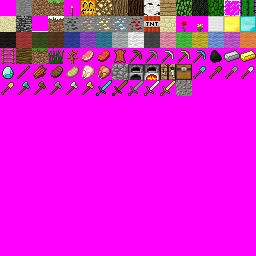
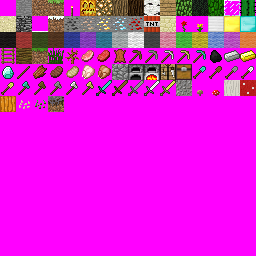
Added Mushroom biomes and fixed a few bugs

Changed region(s): [[0.0, 0.375, 0.25, 0.4375], [0.75, 0.3125, 1.0, 0.375]]

diff --git a/MineDS/source/blocks.cpp b/MineDS/source/blocks.cpp
@@ -10,12 +10,15 @@
 #include <stdarg.h>
 #define sizeOfArray(x) (sizeof(x)/4)
 
-int walkThroughBlocks[]={AIR,YELLOW_FLOWER,RED_FLOWER,SNOW_TOP,TORCH,LADDER,SHRUB,TALL_GRASS};
-int renderBright[]={AIR,LOG,OAK_WOOD,BIRCH_WOOD,LEAF,YELLOW_FLOWER,RED_FLOWER,CACTUS,TORCH,REDWOOD_LEAF,GLASS,SHRUB,TALL_GRASS};
+int walkThroughBlocks[]={AIR,YELLOW_FLOWER,RED_FLOWER,SNOW_TOP,TORCH,LADDER,SHRUB,TALL_GRASS,MUSHROOM_BROWN,MUSHROOM_RED};
+int renderBright[]={AIR,LOG,OAK_WOOD,BIRCH_WOOD,LEAF,YELLOW_FLOWER,RED_FLOWER,CACTUS,TORCH,REDWOOD_LEAF,GLASS,SHRUB,TALL_GRASS,MUSHROOM_RED,MUSHROOM_BROWN};
 int lightSourceBlocks[]={TORCH,PUMPKIN_LIGHT,GLOWSTONE};
 int items[]={PORKCHOP_RAW,BEEF_RAW,LEATHER,PICKAXE_WOOD,PICKAXE_STONE,
-		PICKAXE_IRON,PICKAXE_GOLD,PICKAXE_DIAMOND,COAL,IRON,GOLD,DIAMOND,
-		STICK,FLESH,BEEF_COOKED,PORKCHOP_COOKED,CHICKEN_RAW,CHICKEN_COOKED, SHOVEL_DIAMOND, SHOVEL_WOOD, SHOVEL_STONE, SHOVEL_IRON, SHOVEL_GOLD, AXE_DIAMOND, AXE_WOOD,AXE_STONE,AXE_IRON,AXE_GOLD,SWORD_DIAMOND,SWORD_WOOD,SWORD_STONE,SWORD_IRON,SWORD_GOLD};
+		PICKAXE_IRON,PICKAXE_GOLD,PICKAXE_DIAMOND,COAL,INGOT_IRON,INGOT_GOLD,DIAMOND,
+		STICK,FLESH,BEEF_COOKED,PORKCHOP_COOKED,CHICKEN_RAW,CHICKEN_COOKED,SHOVEL_DIAMOND,
+		SHOVEL_WOOD,SHOVEL_STONE,SHOVEL_IRON,SHOVEL_GOLD,AXE_DIAMOND,AXE_WOOD,AXE_STONE,
+		AXE_IRON,AXE_GOLD,SWORD_DIAMOND,SWORD_WOOD,SWORD_STONE,SWORD_IRON,SWORD_GOLD,
+		SEEDS_PUMPKIN,SEEDS_WHEAT};
 int hardness[NUM_BLOCKS]; //Slot is ID number, negative number means tool
 int blockType[NUM_BLOCKS]; //Type of block/tool
 
@@ -126,8 +129,8 @@ void initBlockProperties()
 	setArray(blockType,SWORD,5,SWORD_STONE, SWORD_IRON, SWORD_GOLD, SWORD_WOOD,SWORD_DIAMOND); //Swords
 
 	//Blocks
-	setArray(blockType,WOOD,3,JUNGLE_WOOD,BIRCH_WOOD,OAK_WOOD);
-	setArray(blockType,SOIL,6,JUNGLE_GRASS,GRASS,DIRT,SAND,GRAVEL,SNOW_GRASS);
+	setArray(blockType,WOOD,3,JUNGLE_WOOD,BIRCH_WOOD,OAK_WOOD); //Axe Blocks
+	setArray(blockType,SOIL,7,JUNGLE_GRASS,GRASS,DIRT,SAND,GRAVEL,SNOW_GRASS,MYCELIUM);//Shovel Blocks
 	setArray(blockType,STONEBLOCK,7,STONE,SANDSTONE,COBBLESTONE,COAL_ORE,IRON_ORE,GOLD_ORE,DIAMOND_ORE); //Blocks that must be mined with a pickaxe
 
 	int i;
@@ -150,7 +153,7 @@ void initBlockProperties()
 	setArray(hardness, -4,3,PICKAXE_WOOD,AXE_WOOD,SHOVEL_WOOD);
 
 	//Block Hardness
-	setArray(hardness, 2, 4, JUNGLE_GRASS,GRASS,DIRT,SNOW_GRASS);
+	setArray(hardness, 2, 5, JUNGLE_GRASS,GRASS,DIRT,SNOW_GRASS,MYCELIUM); //Blocks with DIRT's hardness
 	hardness[STONE]=30;
 	hardness[SANDSTONE]=20;
 	hardness[COAL_ORE]=35;

diff --git a/MineDS/source/worldgen.cpp b/MineDS/source/worldgen.cpp
@@ -8,6 +8,7 @@
 
 #include "world.h"
 #include "blockID.h"
+#include "blocks.h"
 #include <stdio.h>
 #include <cstdlib>
 #include <nds.h>
@@ -97,14 +98,15 @@ void generateWorld (worldObject* world){
 		int sizex;
 		sizex=rand()%16+ 16;
 		if (sizex > WORLD_WIDTH) sizex = WORLD_WIDTH;
-		int generator = rand() % 2;
-		if (generator == 0) j = extremeMountainGen(world,i,j,i+sizex);
-		else if (generator == 1) j = flatGen(world,i,j,i+sizex);
-		int biome = rand() % 4;
-		if (biome == 0) plainsBiome(world,i,i+sizex);
-		else if (biome == 1) snowBiome(world,i,i+sizex);
-		else if (biome == 2) desertBiome(world,i,i+sizex);
-		else if (biome == 3) jungleBiome(world,i,i+sizex);
+		j = (rand() % 2==1 ? extremeMountainGen(world,i,j,i+sizex) : flatGen(world,i,j,i+sizex));
+		switch (rand() % 5)
+		{
+			case 0:plainsBiome(world,i,i+sizex); break;
+			case 1: snowBiome(world,i,i+sizex); break;
+			case 2: desertBiome(world,i,i+sizex); break;
+			case 3: jungleBiome(world,i,i+sizex); break;
+			case 4: mushroomBiome(world,i,i+sizex); break;
+		}
 		updateBrightnessAround(world,i,j);
 		i=i+sizex+1;
 	}
@@ -114,6 +116,6 @@ void generateWorld (worldObject* world){
 	for (i=0;i<=WORLD_WIDTH;i++)
 		for (j=0;j<=WORLD_HEIGHT;j++)
 			{
-			 if (world->blocks[i][j]!=AIR) world->bgblocks[i][j]=world->blocks[i][j];			
+			 if (world->blocks[i][j]!=AIR && (!isBlockWalkThrough(world->blocks[i][j]) || world->blocks[i][j]==SNOW_TOP)) world->bgblocks[i][j]=world->blocks[i][j];			
 			}
 }

diff --git a/MineDS/source/trees.cpp b/MineDS/source/trees.cpp
@@ -65,6 +65,17 @@ void growJungleTree(worldObject* world,int x,int y)
 	leafVirus(world,x,i,2+rand()%3,false,JUNGLE_LEAF);
 	leafVirus(world,x+1,i,2+rand()%3,false,JUNGLE_LEAF);
 }
+void growGiantMushroom(worldObject* world,int x,int y)
+{
+	int height = 2 + rand() % 2;
+	int i;
+	for (i=y;i>=y-height;i--)
+	{
+		world->bgblocks[x][i]=MUSHROOM_STEM; // Draw the trunk.
+	}
+	//Now for the leaves...
+	leafVirus(world,x,i,2+(rand()%2),false,MUSHROOM_TOP);
+}
 void growCactus(worldObject* world,int x,int y)
 {
 	int height = rand()%3;
@@ -78,12 +89,12 @@ void growFlower(worldObject* world,int x,int y)
 }
 void growPumpkinPatch(worldObject* world,int x,int y)
 {
-	/*int i;
+	int i;
 	for (i=x-5;i<=x;i++)
 		if (!(rand()%5))
 		{
 			int y = findFirstBiomeBlock(world,i);
-			world->blocks[i][y]=PUMPKIN_SIDE_1 + rand() % 2;
+			world->blocks[i][y]=PUMPKIN + rand() % 2;
 			if (i==-1) iprintf("\n\n\n\n\n\n\n\nHi!");
-		}*/
+		}
 }

diff --git a/MineDS/source/biomes.cpp b/MineDS/source/biomes.cpp
@@ -137,3 +137,30 @@ void desertBiome(worldObject* world,int startx,int endx)
 		x++;
 	}
 }
+void mushroomBiome(worldObject* world,int startx,int endx)
+{
+	int x=startx;
+	int treex=startx + 8 + rand()%10;
+	int flx=startx + 1 + rand()%3;
+	int y;
+	
+	while (x<=endx)
+	{
+		y=findFirstBlock(world,x); // Get the first block that is not AIR...
+		int endy=y+(rand() % 2) + 2;
+		for (int j=y; j<endy;j++) world->blocks[x][j]=DIRT;
+		world->blocks[x][y]=MYCELIUM;
+		if (flx==x)
+		{
+			world->blocks[x][y-1]=(rand()%2==1 ? MUSHROOM_BROWN : MUSHROOM_RED);
+			flx+= 1 + rand()%4;
+		}
+		if (treex==x)
+		{
+			growGiantMushroom(world,x,y-1);
+			world->blocks[x][y-1]=AIR; //If there is a mushroom there, I haven't added transparency so it whill look weird
+			treex+= 8 + rand()%5;
+		}
+		x++;
+	}
+}

diff --git a/MineDS/source/inventory.cpp b/MineDS/source/inventory.cpp
@@ -53,10 +53,12 @@ bool addInventory(int blockID, int amount) //adds the specified amount to a bloc
 	
 	switch (blockID)
 	{
-		case GRASS: case JUNGLE_GRASS: case SNOW_GRASS: blockID = DIRT; break;
+		case GRASS: case JUNGLE_GRASS: case SNOW_GRASS: case MYCELIUM: blockID = DIRT; break;
+		case TALL_GRASS: blockID = SEEDS_WHEAT; amount = rand()%2+1; break;
 		case BEDROCK: return false; break; //Cannot break bedrock
 		case SNOW_TOP: return true; break; //Can break snow tops, just they won't be added to the inventory
 		case AIR: return false; break;
+		case MUSHROOM_STEM: case MUSHROOM_TOP: return true; break;
 	}
 	
 	for (i=0;i<NUM_INV_SPACES;i++)

diff --git a/MineDS/source/crafting.cpp b/MineDS/source/crafting.cpp
@@ -34,8 +34,8 @@ void craftingInit()
 	addCraftingRecipe(BEEF_COOKED,1,BEEF_RAW,1);
 	addCraftingRecipe(CHICKEN_COOKED,1,CHICKEN_RAW,1);
 	addCraftingRecipe(PORKCHOP_COOKED,1,PORKCHOP_RAW,1);
-	addCraftingRecipe(DIAMOND,1,ORE_DIAMOND,1);
-	addCraftingRecipe(IRON,1,ORE_IRON,1);
+	addCraftingRecipe(DIAMOND,1,DIAMOND_ORE,1);
+	addCraftingRecipe(INGOT_IRON,1,IRON_ORE,1);
 }
 
 void addCraftingRecipe(int block,int amount,int aid,int aamount,int bid,int bamount,int cid,int camount,int did,int damount)

diff --git a/MineDS/source/main.cpp b/MineDS/source/main.cpp
@@ -9,6 +9,7 @@
 #include <nds.h>
 #include <stdio.h>
 #include <time.h>
+#include "blocks.h"
 #include "world.h"
 #include "mobs.h"
 #include "particles.h"
@@ -43,6 +44,7 @@ int main()
 	nifiInit();
 	mmStop();
 	swiWaitForVBlank();
+	initBlockProperties();
 	//setSubBgTile(1,0,1);
 	//iprintf("Some Random DEBUG int:%d\n",0);
 	//iprintf("Some Random DEBUG bool:%s\n",isBlockWalkThrough(FLOWER_RED) ? "True" : "False");

diff --git a/MineDS/source/mainGame.cpp b/MineDS/source/mainGame.cpp
@@ -5,7 +5,6 @@
 #include "message.h"
 #include "mining.h"
 #include "blockID.h"
-#include "blocks.h"
 #include "inventory.h"
 #include "worldRender.h"
 #include "graphics/graphics.h"
@@ -28,7 +27,6 @@ worldObject* mainGame(int mode,worldObject* CurrentWorld)
 	lcdMainOnBottom();
 	touchPosition touch;
 	initInvGraphics();
-	initBlockProperties();
 
 	addInventory(PICKAXE_STONE,1);
 	addInventory(AXE_STONE,1);

diff --git a/MineDS/source/trees.h b/MineDS/source/trees.h
@@ -2,6 +2,7 @@
 void growNormalTree(worldObject* world,int x,int y,bool birch);
 void growOakTree(worldObject* world,int x,int y);
 void growJungleTree(worldObject* world,int x,int y);
+void growGiantMushroom(worldObject* world,int x,int y);
 void growCactus(worldObject* world,int x,int y);
 void growFlower(worldObject* world,int x,int y);
 void growPumpkinPatch(worldObject* world,int x,int y);

diff --git a/MineDS/source/biomes.h b/MineDS/source/biomes.h
@@ -3,3 +3,4 @@ void plainsBiome(worldObject* world, int startx,int endx);
 void jungleBiome(worldObject* world, int startx,int endx);
 void snowBiome(worldObject* world,int startx,int endx);
 void desertBiome(worldObject* world,int startx,int endx);
+void mushroomBiome(worldObject* world,int startx,int endx);

diff --git a/MineDS/source/blockID.h b/MineDS/source/blockID.h
@@ -112,3 +112,11 @@
 #define SWORD_IRON 89
 #define SWORD_GOLD 90
 #define GRAVEL 91
+#define MUSHROOM_BROWN 92
+#define MUSHROOM_RED 93
+#define MUSHROOM_STEM 94
+#define MUSHROOM_TOP 95
+#define PUMPKIN 96
+#define SEEDS_PUMPKIN 97
+#define SEEDS_WHEAT 98
+#define MYCELIUM 99

diff --git a/MineDS/source/mining.h b/MineDS/source/mining.h
@@ -1,6 +1,6 @@
 #include "world.h"
 #include <nds.h>
-#define NUM_BLOCKS 91
+#define NUM_BLOCKS 99
 int getSelectedblock();
 void miningUpdate(worldObject* world,int sx,int sy,touchPosition touch, int keys);
 void blocksCanPlace();
